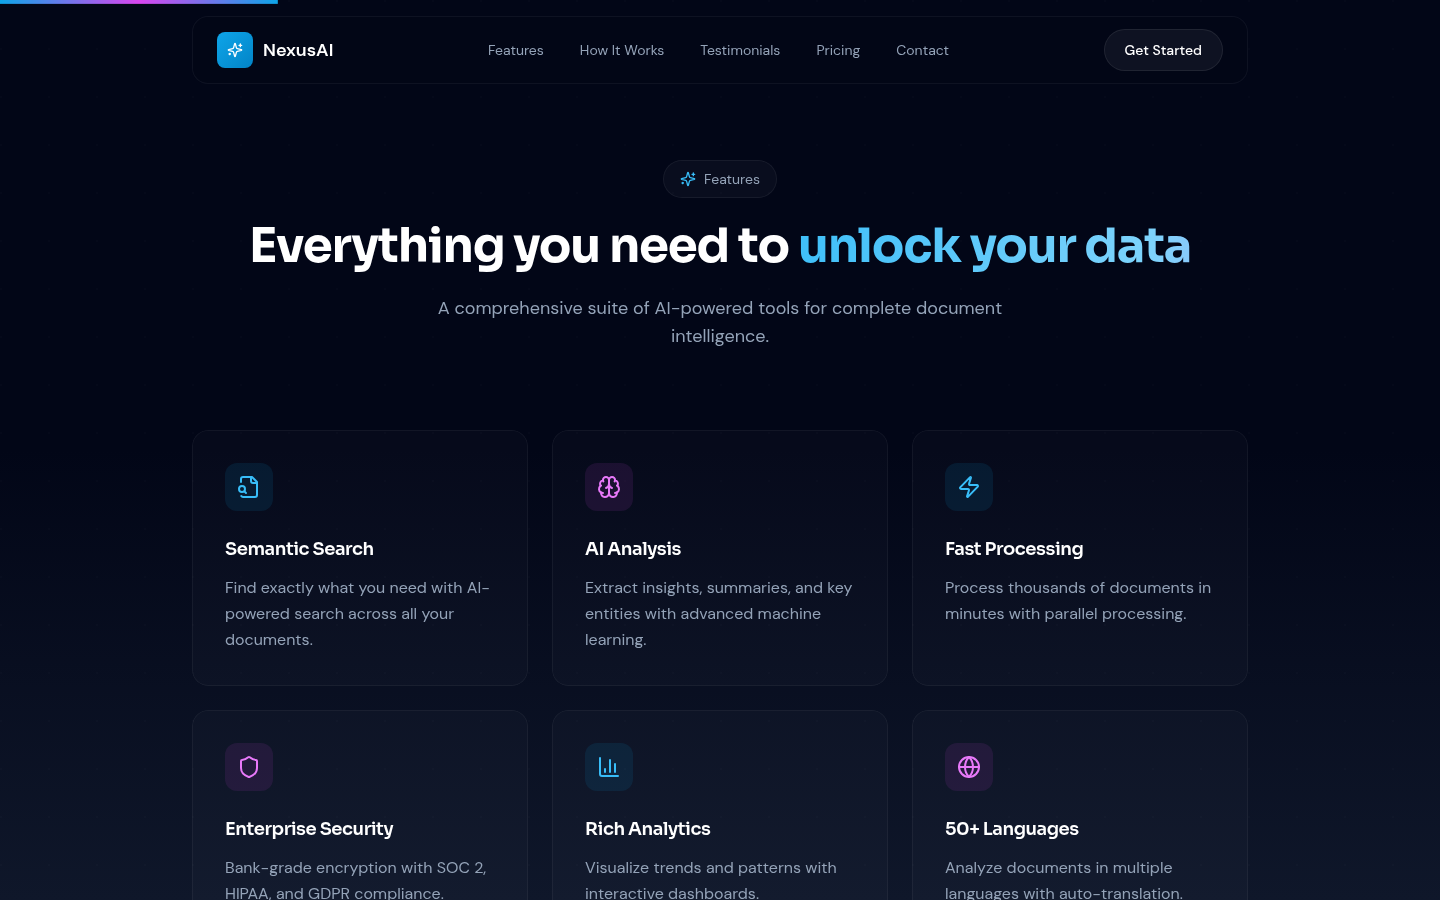
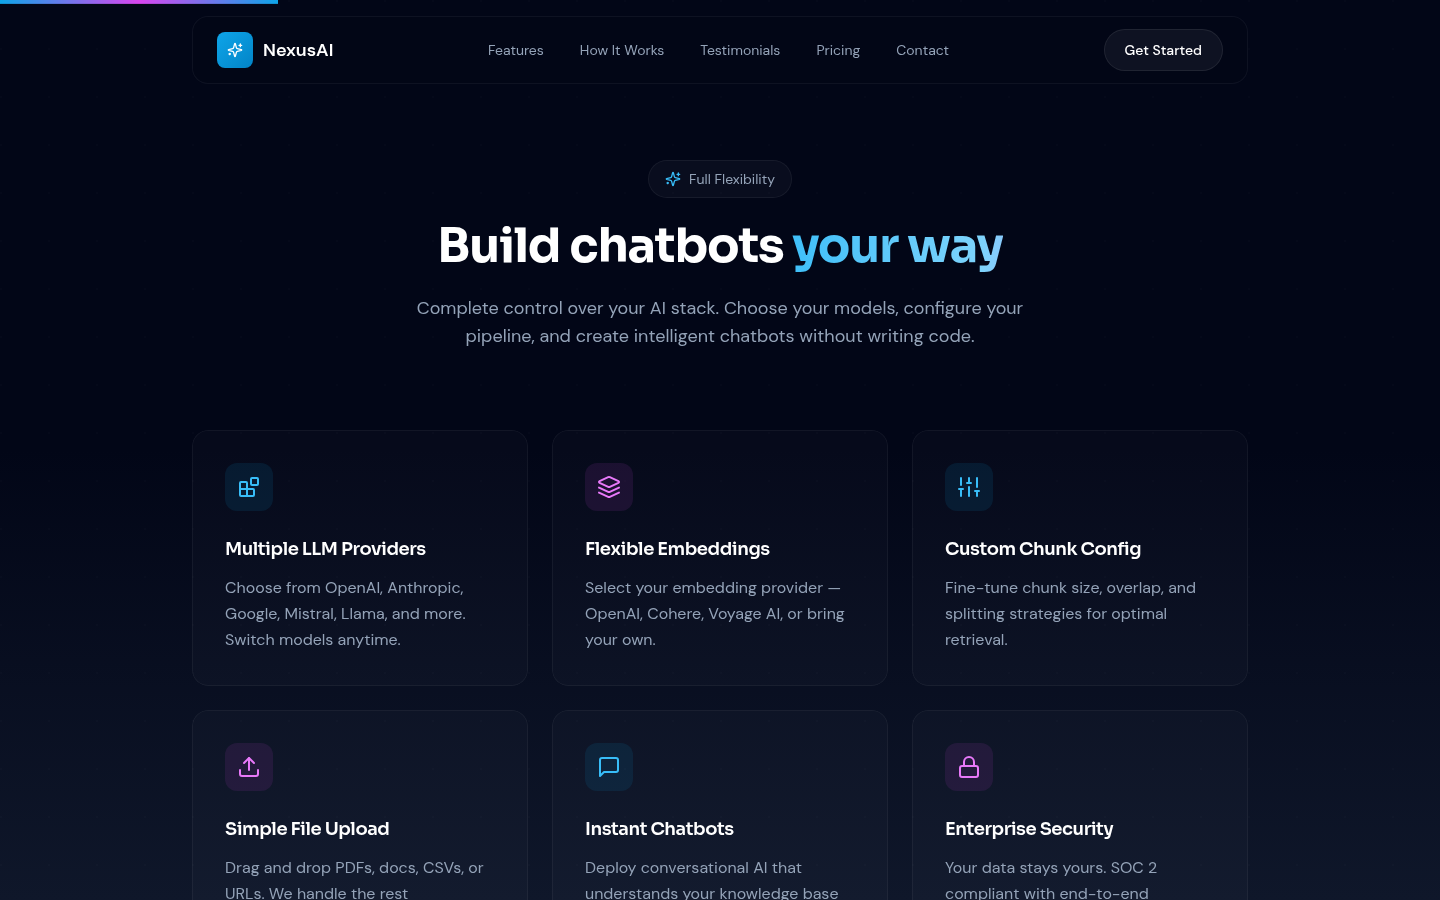
docs: Update screenshots with chatbot builder features

diff --git a/apps/landing-page/screenshots/README.md b/apps/landing-page/screenshots/README.md
@@ -1,50 +1,50 @@
-# UI Improvement Screenshots
+# Landing Page Screenshots
 
-Screenshots demonstrating all the new UI features implemented in this PR.
+Screenshots showcasing the NexusAI Chatbot Builder landing page.
 
-## 1. Hero Section with Animated Stats
-The stats now animate counting up when they come into view.
+## 1. Hero Section
+Main hero with "Build AI Chatbots Your Way" messaging, highlighting LLM flexibility, embedding providers, and custom RAG config.
 
 ![Hero Section](./01-hero-section.png)
 
 ---
 
-## 2. Scroll Progress Indicator
-A gradient progress bar at the top shows scroll position as user scrolls down the page.
+## 2. Product Demo - Chatbot Dashboard
+Interactive product demo showing the chatbot management interface with configuration options for LLM models, embeddings, chunk size, and overlap.
 
-![Scroll Progress](./02-scroll-progress.png)
-
----
-
-## 3. Features Section with Card Hover Effects
-Cards lift up with subtle shadows on hover for better interactivity feedback.
-
-![Features Hover](./03-features-hover.png)
+![Product Demo](./02-scroll-progress.png)
 
 ---
 
-## 4. Pricing Section - Monthly Billing
-Default view showing monthly pricing.
+## 3. Features Section
+Key features: Multiple LLM Providers, Flexible Embeddings, Custom Chunk Config, Simple File Upload, Instant Chatbots, Enterprise Security.
 
-![Pricing Monthly](./04-pricing-monthly.png)
-
----
-
-## 5. Pricing Section - Yearly Billing (20% Discount)
-Toggle switches between monthly and yearly with animated price change.
-
-![Pricing Yearly](./05-pricing-yearly.png)
+![Features](./03-features-hover.png)
 
 ---
 
-## 6. Testimonials with Hover Effects
-Testimonial cards lift on hover with shadow effects.
+## 4. Supported Providers
+Provider showcase with OpenAI, Anthropic, Google AI, Cohere, Mistral, and Voyage AI. Includes example YAML configuration.
 
-![Testimonials Hover](./06-testimonials-hover.png)
+![Providers](./04-pricing-monthly.png)
+
+---
+
+## 5. How It Works
+4-step flow: Upload Knowledge → Configure Stack → Train Chatbot → Deploy & Share. Includes detailed config example.
+
+![How It Works](./05-pricing-yearly.png)
+
+---
+
+## 6. Testimonials
+Customer testimonials highlighting model flexibility, RAG tuning, and cost optimization benefits.
+
+![Testimonials](./06-testimonials-hover.png)
 
 ---
 
 ## 7. Mobile Responsive View
-Mobile-optimized layout with proper spacing and touch-friendly elements.
+Mobile-optimized layout with the same chatbot builder messaging.
 
-![Mobile Hero](./07-mobile-hero.png)
+![Mobile View](./07-mobile-hero.png)
